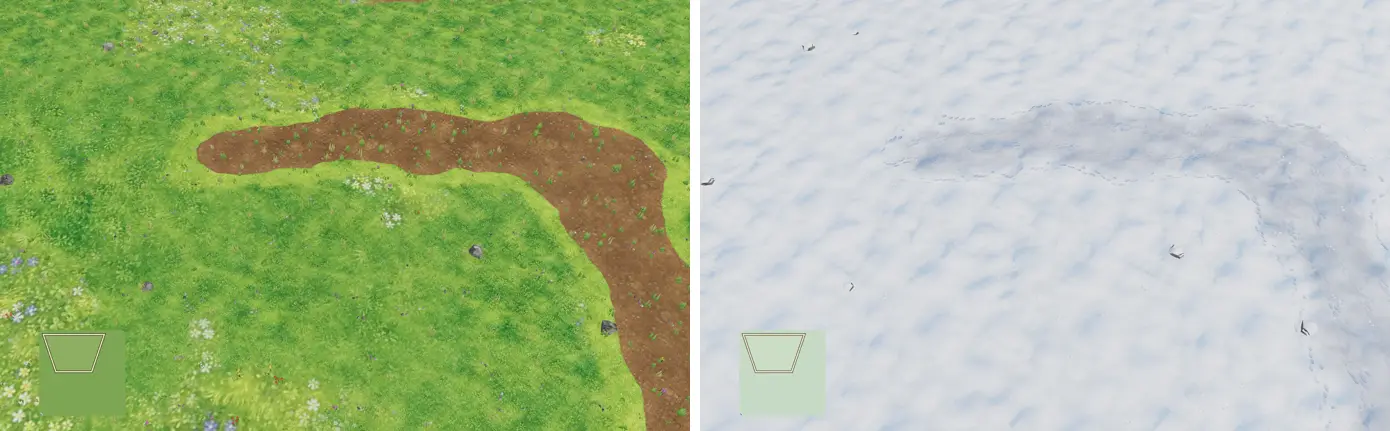
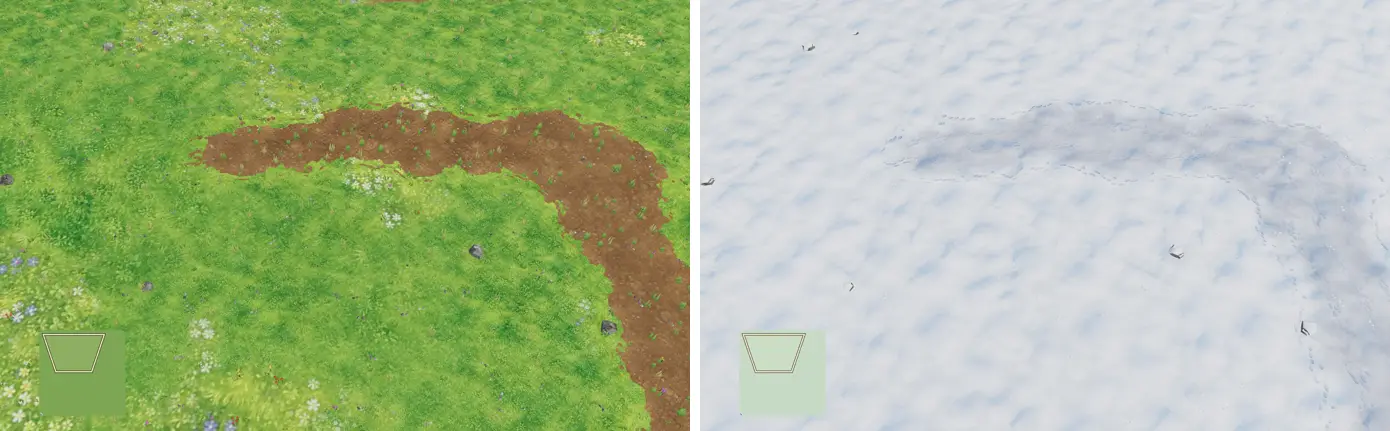
Back to the ragged summer paths of the bench v5; earth fades out on rock
The v6 polish made the earth a clean continuous ribbon that looked painted;
the summer shader, its track texture and the docs are back to the v5 state
(patchy, frayed, with gaps; diagonals as strong as straight). New: the earth
colour fades out with the rock weight of the ground, a track on stone only
scuffs and darkens it. The bench gets two rock cases (grass to rock, fully on
rock). The blog article tells the "too clean looked painted" lesson and the
rock rule, with new images.

Claude-Session: https://claude.ai/code/session_01EGQF1o9VK85vFQu2K95yRq

diff --git a/src/render/terrain.js b/src/render/terrain.js
@@ -554,23 +554,21 @@ float kSt = kTrE;
 // core with a soft grass edge, about as wide as the trodden snow lane.
 // The summer field is calmer than kTrE (less noise on the strength), so the width stays even along the path.
 float kNh = texture2D(tMacro, vWPos.xz * 0.53 + 0.21).g - 0.5;
-float kTrS = kTr + kN * 0.05 + kWide * 0.04;
+float kTrS = kTr + kN * 0.07 + kWide * 0.05;
 float kFlat = 0.0, kSoil = 0.0, kPath = 0.0;
 if (uSnow < 0.5 && kTr > 0.05) {
   // light: flattened, lighter grass – a soft band plus blades laid down along the middle (the snow prints' geometry)
   float kBl = kTrails(kRel, kDir, kSt, 0.2, 0.1, vec2(0.16, 0.05), 0.35).x;
-  kFlat = max(smoothstep(0.24, 0.4, kTrS) * 0.85, kBl * smoothstep(0.16, 0.3, kTrS));
-  // earth: one line along the middle whose threshold follows the stage of the path (R = strongest stage nearby):
-  // medium = a thin continuous worn line, full = a narrow core with a soft grass edge
-  // The field relative to the height of its ridge (≈ 0.82 × stage on a straight path, 0.72 × on a diagonal one,
-  // whose tiles only touch at the corners): the same share gives the same width in every direction
-  vec2 kCs = kTs.ga * 2.0 - 1.0;
-  float kDiag = 1.0 - abs(kCs.x) / max(length(kCs), 0.05);
-  float kRidge = kTrS / max(0.2, kTs.r * mix(0.82, 0.72, kDiag));
-  kSoil = smoothstep(0.84, 0.9, kRidge + kNh * 0.03) * smoothstep(0.62, 0.72, kTs.r) * (1.0 - smoothstep(0.85, 1.0, kTs.r));
-  kPath = smoothstep(0.83, 0.9, kRidge + kNh * 0.03) * smoothstep(0.85, 0.98, kTs.r);
+  kFlat = max(smoothstep(0.28, 0.44, kTrS) * 0.45, kBl * smoothstep(0.18, 0.32, kTrS));
+  // medium: earth showing through as worn spots along the middle, then in patches
+  float kW = kTrails(kRel, kDir, kSt, 0.5, 0.06, vec2(0.12, 0.08), 0.3).x;
+  kSoil = max(kW * smoothstep(0.44, 0.56, kTrS), smoothstep(0.6, 0.7, kTrS + kNh * 0.3) * smoothstep(0.52, 0.62, kTrS));
+  // full: a narrow earth core with a soft grass edge
+  kPath = smoothstep(0.76, 0.88, kTrS);
 }
-wDirt = max(wDirt, max(kPath * 0.92, kSoil * 0.7));
+// On rock the earth colour fades out with the rock weight of the ground: a track only scuffs and darkens the stone
+float kRockK = smoothstep(0.05, 0.4, wRock);
+wDirt = max(wDirt, max(kPath * 0.95, kSoil * 0.75) * (1.0 - kRockK));
 wMeadow *= 1.0 - max(kPath, kFlat * 0.8);
 float wGrass = max(0.0, 1.0 - wMeadow - wDirt - wSand - wRock);
 wMeadow *= (1.0 - wDirt) * (1.0 - wSand) * (1.0 - wRock);
@@ -587,8 +585,12 @@ vec3 albedo = (cGrass * bG + cMeadow * bA.x + cDirt * bA.y + cSand * bA.z + cRoc
 kH = (hG * bG + dot(hA, bA)) / bSum;
 // Flattened grass: stalks lie down along the path – lighter, straw-coloured streaks, smoother (only on grass/meadow)
 float kGr = kFlat * (1.0 - kPath) * (bG + bA.x) / bSum;
-albedo = mix(albedo, albedo * vec3(1.32, 1.24, 0.62) + vec3(0.09, 0.08, 0.01), kGr * 0.95);
+albedo = mix(albedo, albedo * vec3(1.25, 1.17, 0.68) + vec3(0.06, 0.05, 0.0), kGr * 0.8);
 kH = mix(kH, 0.35 + kH * 0.3, kGr * 0.6);
+// Scuffed stone: where the ground is rock, a track makes it darker and dirtier (grey-brown), never earth-brown
+float kScuff = max(max(kPath, kSoil), kFlat * 0.35) * (bA.w / bSum);
+albedo = mix(albedo, albedo * vec3(0.66, 0.62, 0.58), kScuff * 0.9);
+kH = mix(kH, kH * 0.7, kScuff);
 // Snow lies on top
 float sMask = smoothstep(0.3, 0.6, wSnow + (kLum(cSnow) - 0.8) * 0.6 + (1.0 - kH) * 0.25 * wSnow);
 albedo = mix(albedo, cSnow, sMask);

diff --git a/scripts/tracks-bench/cases.js b/scripts/tracks-bench/cases.js
@@ -3,7 +3,9 @@
 // (screenshots) and tests/render/trackBench.test.js (one path per shape, not several).
 
 /** Shapes in the order of the rows. */
-export const BENCH_CASES = ['straight', 'diagonal', 'bend', 'scurve', 'junction'];
+export const BENCH_CASES = ['straight', 'diagonal', 'bend', 'scurve', 'junction', 'rockcross', 'rockonly'];
+/** Cases on rough (steep, so rock-textured) terrain: the right half of the cell, or all of it. */
+export const BENCH_ROCK = { rockcross: 'right', rockonly: 'all' };
 /** Strengths in the order of the columns: just trodden (flattened grass), medium (earth shows), full path. */
 export const BENCH_STRENGTHS = { light: 70, medium: 150, full: 255 };
 /** Size of a cell in tiles (square); the shape lies in the middle with a margin of at least 2 tiles. */
@@ -28,7 +30,7 @@ export function shapeTiles(shape, n = BENCH_CELL) {
       if (e2 <= dx) { err += dx; y0 += sy; }
     }
   };
-  if (shape === 'straight') line(2, m, n - 3, m);
+  if (shape === 'straight' || shape === 'rockcross' || shape === 'rockonly') line(2, m, n - 3, m);
   else if (shape === 'diagonal') line(2, 2, n - 3, n - 3);
   else if (shape === 'bend') { line(2, m - 2, m + 1, m - 2); line(m + 1, m - 2, m + 1, n - 3); }
   else if (shape === 'scurve') {
@@ -44,18 +46,31 @@ export function shapeTiles(shape, n = BENCH_CELL) {
 
 /**
  * The whole bench: map size and the strength per tile.
- * @returns {{ W: number, H: number, tracks: Uint8Array, cells: {shape: string, level: string, x: number, y: number}[] }}
- *   cells: top-left tile of each cell
+ * @returns {{ W: number, H: number, tracks: Uint8Array, heights: Int32Array,
+ *   cells: {shape: string, level: string, x: number, y: number}[] }}
+ *   cells: top-left tile of each cell; heights (cm): flat, rough where the shape lies on rock
  */
 export function benchField() {
   const levels = Object.keys(BENCH_STRENGTHS);
   const W = BENCH_CELL * levels.length + 4, H = BENCH_CELL * BENCH_CASES.length + 4;
   const tracks = new Uint8Array(W * H);
+  const heights = new Int32Array(W * H);
   const cells = [];
   BENCH_CASES.forEach((shape, r) => levels.forEach((level, c) => {
     const x0 = 2 + c * BENCH_CELL, y0 = 2 + r * BENCH_CELL;
     cells.push({ shape, level, x: x0, y: y0 });
     for (const [x, y] of shapeTiles(shape)) tracks[(y0 + y) * W + x0 + x] = BENCH_STRENGTHS[level];
+    // rock: ground rising steeply to the north, facing the camera (the splat turns steep ground to stone); on
+    // 'rockcross' it grows over four tiles from the middle of the cell, so the path crosses from grass onto rock
+    const rock = BENCH_ROCK[shape];
+    if (rock) {
+      const from = rock === 'all' ? -4 : BENCH_CELL >> 1;
+      for (let y = 0; y < BENCH_CELL; y++) for (let x = 0; x < BENCH_CELL; x++) {
+        const f = Math.max(0, Math.min(1, (x - from + 2) / 4));
+        // a four-tile slope around the path row, then a plateau (kept below the snow line)
+        heights[(y0 + y) * W + x0 + x] = Math.round(Math.max(0, Math.min(4, (BENCH_CELL >> 1) + 2 - y)) * 430 * f);
+      }
+    }
   }));
-  return { W, H, tracks, cells };
+  return { W, H, tracks, heights, cells };
 }

diff --git a/src/render/ground.js b/src/render/ground.js
@@ -56,7 +56,7 @@ const bufOf = new WeakMap();
 
 /**
  * Fill the texel bytes (RGBA per tile) from the track strengths of the simulation. Rendering only, the simulation
- * stays per tile. R = strongest stage of the 3×3 neighbourhood (trackShade, last seen state under fog), B = the stage smoothed over the
+ * stays per tile. R = stage of the tile (trackShade, last seen state under fog), B = R smoothed over the
  * neighbours (rounded bends, diagonals as diagonals instead of staircases – the shader samples it bicubically),
  * G/A = walking direction from the neighbouring track tiles as doubled angle (cos 2θ, sin 2θ mapped to 0…255, 128 =
  * no direction): it interpolates smoothly between tiles and orients footprints and flattened blades.
@@ -111,16 +111,14 @@ export function packTracks(tracks, out, { W, H, stages, visible = null, explored
     for (let x = 0, k = y * W, q = (y + 1) * PW + 1; x < W; x++, k++, q++) {
       let r = 0, g = 128, b = 0, a = 128;
       if (hot) {
-        // R: the strongest stage of the 3×3 neighbourhood – the stage of the path across its whole width, so the
-        // summer shader can draw a medium path as a thin line and a full one as a core without seeing tile edges
-        r = Math.max(seen[q], seen[q - 1], seen[q + 1], seen[q - PW], seen[q + PW], seen[q - PW - 1], seen[q - PW + 1], seen[q + PW - 1], seen[q + PW + 1]);
+        r = seen[q];
         const n = q - PW, sN = q + PW;
-        const sum = seen[n - 1] + 2 * seen[n] + seen[n + 1] + 2 * seen[q - 1] + 4 * seen[q] + 2 * seen[q + 1] + seen[sN - 1] + 2 * seen[sN] + seen[sN + 1];
+        const sum = seen[n - 1] + 2 * seen[n] + seen[n + 1] + 2 * seen[q - 1] + 4 * r + 2 * seen[q + 1] + seen[sN - 1] + 2 * seen[sN] + seen[sN + 1];
         if (sum) {
           // along the line (best of the four axes): a diagonal path of corner-touching tiles keeps the same strength
           // as a straight one, the blur only widens it sideways
           const line = Math.max(seen[q - 1] + seen[q + 1], seen[n] + seen[sN], seen[n - 1] + seen[sN + 1], seen[n + 1] + seen[sN - 1]);
-          b = Math.min(255, Math.round(Math.max(sum * gain, (2 * seen[q] + line) / 4)));
+          b = Math.min(255, Math.round(Math.max(sum * gain, (2 * r + line) / 4)));
           const dc = -(jc[n - 1] + 2 * jc[n] + jc[n + 1] + 2 * jc[q - 1] + 4 * jc[q] + 2 * jc[q + 1] + jc[sN - 1] + 2 * jc[sN] + jc[sN + 1]);
           const ds = -(js[n - 1] + 2 * js[n] + js[n + 1] + 2 * js[q - 1] + 4 * js[q] + 2 * js[q + 1] + js[sN - 1] + 2 * js[sN] + js[sN + 1]);
           const len = Math.sqrt(dc * dc + ds * ds);

diff --git a/tests/render/ground.test.js b/tests/render/ground.test.js
@@ -52,7 +52,7 @@ describe('Track texture', () => {
     expect(packTracks(t, out, { W: big, H: big, stages: grass })).not.toBe(null);
     const px = (x, y) => [...out.subarray((y * big + x) * 4, (y * big + x) * 4 + 4)];
     const angle = (x, y) => { const [, g, , a] = px(x, y); return Math.round(Math.atan2((a - 128) / 127, (g - 128) / 127) / 2 * 180 / Math.PI); };
-    // R: the stage of the path (strongest stage of the neighbourhood)
+    // R: the stage of the tile itself
     expect(px(2, 1)[0]).toBe(trackShade(v, grass));
     // direction: along the row 0°, along the column ±90°, along the diagonal 45° (x east, y south)
     expect(angle(2, 1)).toBe(0);
@@ -62,7 +62,7 @@ describe('Track texture', () => {
     // (no staircase), a tile far away stays empty
     expect(px(2, 1)[2]).toBeGreaterThanOrEqual(Math.floor(px(2, 1)[0] * 0.9));
     expect(px(3, 5)[2]).toBeGreaterThan(0);  // beside the diagonal, between two of its tiles
-    expect(px(3, 5)[0]).toBe(trackShade(v, grass)); // R: strongest stage nearby (the path's stage across its width)
+    expect(px(3, 5)[0]).toBe(0);
     expect(px(8, 10)[2]).toBe(0);
     // below the faint stage of grass: nothing in the picture
     expect(px(8, 0)[0]).toBe(0);

diff --git a/src/site/blog/posts/footpaths.de.md b/src/site/blog/posts/footpaths.de.md
@@ -60,9 +60,12 @@ Stärke kommen weitere Lagen dazu, jede ein wenig gedreht und versetzt, bis sie 
 schmutzigen Spur verschmelzen.
 
 Im Sommer gilt **dieselbe Geometrie** – nur das Material wechselt: schwach getreten liegen hellere Halme flach, mittel
-zeigt sich eine dünne Erdlinie in der Mitte, voll ausgetreten ein schmaler Erdweg mit weichem Grasrand.
+schaut Erde in verstreuten Flecken entlang der Mitte durch, voll ausgetreten ist es überwiegend Erde mit weichem
+Grasrand. Die Erde ist dabei nie sauber gezogen: Rauschen in drei Größen fasert die Ränder aus und lässt Lücken und
+Flecken entstehen. Auf **Fels** wird die Spur nie erdbraun – dort wird der Stein nur dunkler und schmutziger; der
+Shader blendet die Erdfarbe mit dem Gesteinsgewicht des Bodens aus.
 
-![Der Prüfstand: fünf Formen (gerade, diagonal, Knick, S-Kurve, Abzweig) in drei Stärken, links Sommer, rechts Winter – immer ein Weg, im Sommer wie im Schnee gleich breit.](blog/footpaths/bench.webp)
+![Der Prüfstand: fünf Formen (gerade, diagonal, Knick, S-Kurve, Abzweig) und zwei Felsfälle in drei Stärken, links Sommer, rechts Winter – immer ein Weg, im Sommer wie im Schnee ähnlich breit, im Sommer aufgebrochen und ausgefranst.](blog/footpaths/bench.webp)
 
 ## Wie es dahin kam {#story}
 
@@ -73,6 +76,14 @@ Der Weg zu diesem Bild führte über mehrere Fehlversuche:
    braune Flächen ließen die Siedlung unordentlich aussehen.
 3. **Parallele Streifen:** Ein Versuch, jede Pfadkachel als kurze Kapsel in Laufrichtung zu zeichnen, machte die
    einzelnen Wege schmal. In der Stadt lagen dann aber mehrere Streifen nebeneinander, wo eigentlich ein Weg war.
+4. **Zu sauber:** Ein Zwischenstand zeichnete die Erde als durchgehende, glatt begrenzte Linie. Das war ordentlich –
+   und sah aus, als hätte jemand braune Farbe ins Gras gestrichen. Ein echter Trampelpfad wird nicht sauber gezogen:
+   Er franst aus, bricht auf, hat Lücken und Flecken. Die Fassung davor, mit Ausfransen und Lücken, wirkte viel
+   natürlicher; zurück ging es also zu ihr, nur mit der schmaleren Breite. **Gerissen und lückig sieht ausgetreten
+   aus, durchgehend sieht aufgemalt aus.**
+5. **Fels:** Auf Steinboden wurde die Spur zuerst auch erdbraun – braune Streifen quer über Felsen. Jetzt blendet der
+   Shader die Erdfarbe mit dem Gesteinsgewicht aus und dunkelt den Stein nur ab. Der Prüfstand hat dafür zwei eigene
+   Fälle: ein Weg vom Gras auf den Fels und ein Weg ganz auf Fels.
 
 Das eigentliche Problem war die Prüfung. Stadtbilder nach zwanzig Minuten Spiel sind schön, aber für diese Frage
 nutzlos: Gebäude, Bäume und viele Figuren überdecken alles, jeder Lauf sieht anders aus, und man kann nicht sagen, ob
@@ -84,7 +95,7 @@ Winter. Ein Test prüft dazu, dass jede Form im geglätteten Feld genau **ein** 
 Bogen ließen sich Breite und Form in Minuten vergleichen statt in Stunden – und die Antwort war klar: Der Schnee war
 richtig, der Sommer musste dieselbe Form bekommen.
 
-![Dieselbe KI-Stadt dreimal: links zu breite, fleckige Erdflächen, in der Mitte Streifen nebeneinander, rechts heute – je Route ein zusammenhängender Weg, breit dort, wo Gruppen nebeneinander laufen. Für die Frage „wie breit ist ein Weg?“ taugen solche Bilder kaum; dafür gibt es den Prüfstand.](blog/footpaths/iterations.webp)
+![Dieselbe KI-Stadt dreimal: links zu breite, fleckige Erdflächen, in der Mitte die zu saubere, durchgehende Erde, rechts heute – schmaler, aufgebrochen und ausgefranst, breit nur dort, wo Gruppen nebeneinander laufen. Für die Frage „wie breit ist ein Weg?“ taugen solche Bilder kaum; dafür gibt es den Prüfstand.](blog/footpaths/iterations.webp)
 
 ## Breite Bänder an belebten Stellen {#bands}
 
@@ -111,4 +122,6 @@ sich stärker ab.
 - Rechne in der Simulation so einfach wie möglich (ein Byte je Kachel) und mach das Bild in der Darstellung schön.
 - Baue für eine Optikfrage einen Prüfstand mit sauberen Fällen, bevor du an Spielbildern schraubst.
 - Prüfe Sommer und Winter mit derselben Form; nur das Material darf sich unterscheiden.
+- Zu saubere Linien wirken aufgemalt: Natürliches darf Lücken und ausgefranste Ränder haben.
+- Gib Sonderfälle wie Fels einen eigenen Prüfstandsfall, sonst fallen sie erst in der Stadt auf.
 - Ein kleiner Test („genau ein Weg je Form“) verhindert, dass ein Rückfall unbemerkt bleibt.

diff --git a/src/site/blog/posts/footpaths.en.md b/src/site/blog/posts/footpaths.en.md
@@ -59,9 +59,12 @@ strength grows, more layers are added, each turned and shifted a little, until t
 dirty lane.
 
 In summer **the same geometry** applies – only the material changes: lightly trodden, lighter blades lie flat; medium
-shows a thin earth line in the middle; fully worn, a narrow earth path with a soft grass edge.
+shows earth in scattered patches along the middle; fully worn it is mostly earth with a soft grass edge. The earth is
+never struck cleanly: noise on three scales frays the edges and leaves gaps and patches. On **rock** the track never
+turns earth-brown – the stone only gets darker and dirtier; the shader fades the earth colour out with the rock weight
+of the ground.
 
-![The test bench: five shapes (straight, diagonal, bend, S-curve, junction) at three strengths, summer on the left, winter on the right – always one path, equally wide in summer and in snow.](blog/footpaths/bench.webp)
+![The test bench: five shapes (straight, diagonal, bend, S-curve, junction) and two rock cases at three strengths, summer on the left, winter on the right – always one path, similarly wide in summer and in snow, broken up and frayed in summer.](blog/footpaths/bench.webp)
 
 ## How it got there {#story}
 
@@ -72,6 +75,13 @@ The way to this picture led through several failed attempts:
    areas made the settlement look untidy.
 3. **Parallel strips:** drawing every path tile as a short capsule in walking direction made single paths narrow. In
    the town, however, several strips then lay side by side where there really was one path.
+4. **Too clean:** an intermediate version drew the earth as a continuous, smoothly bounded line. It was tidy – and
+   looked as if someone had smeared brown paint on the grass. A real desire path is not struck cleanly: it frays,
+   breaks up, has gaps and patches. The version before, with frayed edges and gaps, looked far more natural; so we went
+   back to it, only narrower. **Ragged and gappy looks trodden, continuous looks painted.**
+5. **Rock:** on stone ground the track first turned earth-brown too – brown streaks across rocks. Now the shader fades
+   the earth colour out with the rock weight and only darkens the stone. The bench has two cases of its own for this:
+   a path from grass onto rock and a path entirely on rock.
 
 The actual problem was the check. Town screenshots after twenty minutes of play are pretty, but useless for this
 question: buildings, trees and many figures cover everything, every run looks different, and you cannot tell whether a
@@ -82,7 +92,7 @@ S-curve, a junction, each light, medium and full. Every cell gets the same camer
 checks that every shape is exactly **one** connected path in the smoothed field. With this sheet, width and shape could
 be compared in minutes instead of hours – and the answer was clear: the snow was right, summer needed the same shape.
 
-![The same AI town three times: on the left earth areas that were too wide and patchy, in the middle strips side by side, on the right today – one connected path per route, wide where groups walk side by side. For the question "how wide is a path?" such pictures are hardly useful; that is what the test bench is for.](blog/footpaths/iterations.webp)
+![The same AI town three times: on the left earth areas that were too wide and patchy, in the middle the too-clean continuous earth, on the right today – narrower, broken up and frayed, wide only where groups walk side by side. For the question "how wide is a path?" such pictures are hardly useful; that is what the test bench is for.](blog/footpaths/iterations.webp)
 
 ## Wide bands at busy spots {#bands}
 
@@ -108,4 +118,6 @@ like a square in front of the castle that everyone crosses. That is intended: bu
 - Compute as simply as possible in the simulation (one byte per tile) and make the picture nice in the rendering.
 - For a question of looks, build a test bench with clean cases before tinkering with game screenshots.
 - Check summer and winter with the same shape; only the material may differ.
+- Lines that are too clean look painted: natural things may have gaps and frayed edges.
+- Give special cases like rock a bench case of their own, otherwise they only show up in the town.
 - A small test ("exactly one path per shape") keeps a regression from going unnoticed.

diff --git a/docs/SPIELREGELN.md b/docs/SPIELREGELN.md
@@ -564,9 +564,9 @@ Werte: `BALANCE.ground` (alle (A)).
   schlängelt sich um bis zu eine halbe Kachel) und franst Ränder, Breite und Abnutzung mit Rauschen aus – Kurven
   statt Ecken, Diagonalen statt Treppen, ab und zu eine ausgetretene Stelle daneben. Sommer und Regen: dieselbe Weggeometrie wie
   im Schnee (ein Feld, ein Weg, gleiche Kurven und Breite), nur das Material wechselt – schwach getreten: hellere,
-  niedergelegte Halme entlang der Mitte; mittel: eine durchgehende Erdlinie in der Mitte; voll: schmaler Erdkern
+  niedergelegte Halme entlang der Mitte; mittel: Erde schaut in Flecken entlang der Mitte durch; voll: schmaler Erdkern
   mit weichem Grasrand, etwa so breit wie die Schneespur. Diagonale Wege (Kacheln, die sich nur an der Ecke berühren)
-  sind so stark wie gerade. Prüfstand: `node scripts/tracks-bench.mjs` (fünf Formen × drei Stärken, Sommer/Winter,
+  sind so stark wie gerade. Die Erde ist nie sauber gezogen: Ränder fransen aus, der Weg bricht auf und hat Lücken und Flecken (ein sauberes Band sieht aufgemalt aus, ein ausgefranstes wie ausgetreten). Auf Fels (Gesteinsgewicht des Bodens) wird die Spur nie erdbraun, sondern nur dunkler und schmutziger. Prüfstand: `node scripts/tracks-bench.mjs` (fünf Formen × drei Stärken plus zwei Felsfälle, Sommer/Winter,
   plus ein von Leibeigenen gelaufener Weg). Winter: Fußabdrücke in Laufrichtung, mit wachsender Stärke weitere Lagen (je Lage leicht gedreht und
   versetzt), bis sie zur festgetretenen, grauen Spur verschmelzen. Niedrige Grafikstufe: ein linearer statt des
   bikubischen Zugriffs. Nur soweit der Spieler die Kacheln sieht oder zuletzt gesehen hat. Taler und Christrosen liegen sichtbar auf
